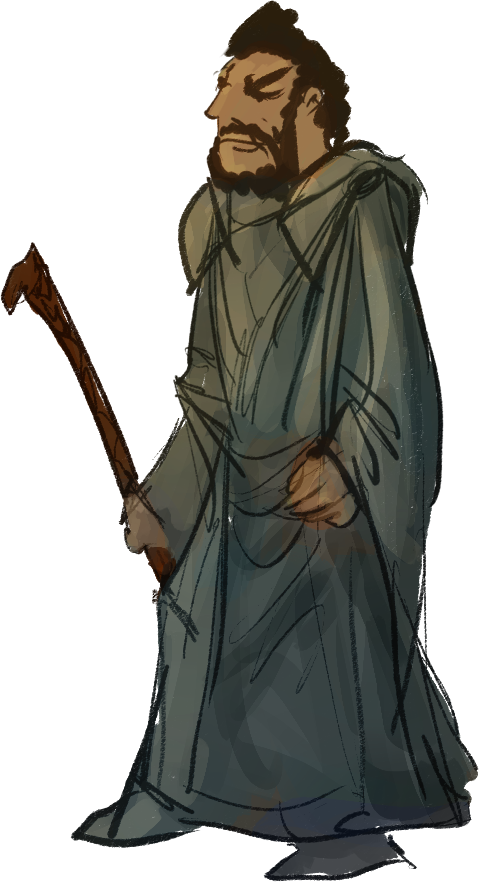
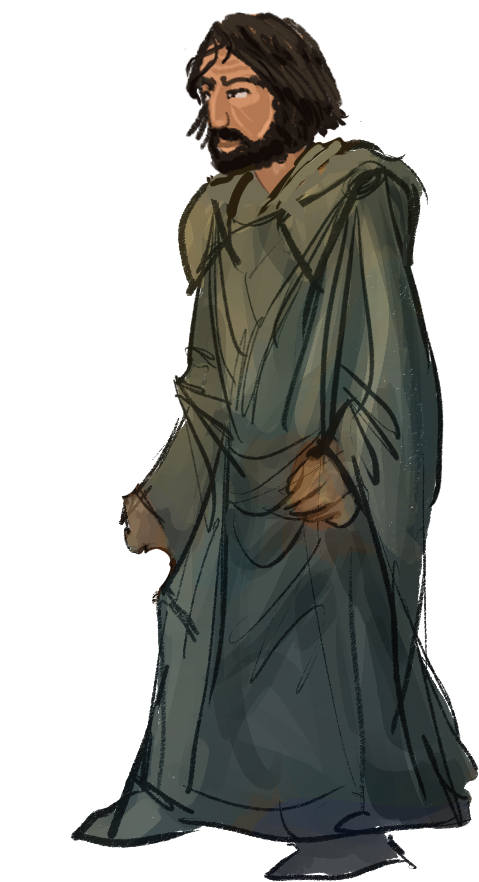
MockQuest

diff --git a/src/engine/reducers.js b/src/engine/reducers.js
@@ -6,6 +6,9 @@ export const [SELECT_LEVEL, selectLevel] = actionCreator('select-level');
 export const [SAVE_PRISONER, savePrisoner] = actionCreator('save-prisoner');
 export const [GET_ITEM, getItem] = actionCreator('get-item');
 export const [MOVE_TO_AREA, moveToArea] = actionCreator('move-to-area');
+
+export const [BEGIN_QUEST, beginQuest] = actionCreator('begin-quest');
+export const [OUT_OF_QUEST, outOfQuest] = actionCreator('out-of-quest');
 export const [QUEST_SOLVED, questSolved] = actionCreator('quest-solved');
 
 export const [WALK_ON_MAP, walkOnMap] = actionCreator('walk-on-map');
@@ -15,6 +18,7 @@ export const [STOP_WALK, stopWalk] = actionCreator('stop-walk');
 export const [SOCRATES_TALK, socratesTalk] = actionCreator('socrates-talk');
 export const [STOP_TALK, stopTalk] = actionCreator('stop-talk');
 export const [CONTINUE_TALK, continueTalk] = actionCreator('continue-talk');
+export const [DEBUG_RESET, debugReset] = actionCreator('debug-reset'); // TODO remove!
 
 export const storyInitial = {
   level: 1,  
@@ -43,6 +47,7 @@ export const storyInitial = {
   equipment: [],
   speakAbout: "",
   hasSocrates: false,
+  hasQuesting: false,
 };
 
 export const storyReducer = (state, {type, payload}) => {
@@ -52,6 +57,8 @@ export const storyReducer = (state, {type, payload}) => {
   const area = caveLookUp[position];
   
   switch(type) {
+    case DEBUG_RESET: return {...storyInitial};
+
     case ACHIVE_SCORE: return { ...state, score: state.score + payload };
     
     case SELECT_LEVEL: return {...state, level: payload };
@@ -66,16 +73,19 @@ export const storyReducer = (state, {type, payload}) => {
       }
 
     case SAVE_PRISONER:
+      // After area solved, but prisoner didn't released.
       if (!area.solved) {
-        console.log(areaData[position])
         const {intro} = areaData[position].data;
         return {          
           ...state, 
-          speakAbout: intro ? intro(avatarNames(level)) : `${position}: intro still missing!`, 
+          speakAbout: intro ? intro(avatarNames(level)) : `A -[${position}]- barlangban még hiányzik a bevezető szöveg!`, 
           hasSocrates: true, 
-          caveLookUp: {...caveLookUp,  [position]:{...area, solved: true} },
+          hasQuesting: true,
+          // caveLookUp: {...caveLookUp,  [position]:{...area, solved: true} }, // TODO
         };
       }
+
+      // before solved  
       const prisoners = area.prisoners.filter(prisoner => prisoner !== payload);
       return {
         ...state, 
@@ -100,8 +110,14 @@ export const storyReducer = (state, {type, payload}) => {
     case START_WALK: return {...state, underWalk: true};
     case STOP_WALK: return {...state, underWalk: false};
     case WALK_ON_MAP: return {...state, walk: payload };
+    
+    case BEGIN_QUEST: return {...state, hasQuesting: true};
+    case OUT_OF_QUEST: return {...state, hasQuesting: false, hasSocrates: false};
 
-    case SOCRATES_TALK: return {...state, speakAbout: payload(avatarNames(level)), hasSocrates: true };
+    case SOCRATES_TALK: 
+      const speakAbout = payload(avatarNames(level));
+      return {...state, speakAbout, hasSocrates: true };
+
     case CONTINUE_TALK: return {...state, hasSocrates: true };
     case STOP_TALK: return {...state, hasSocrates: false };
 

diff --git a/src/layouts/IdeaFrame.js b/src/layouts/IdeaFrame.js
@@ -13,24 +13,25 @@ import HeaderBar from './HeaderBar';
 import MapWithHero from './MapWithHero';
 
 import { areaData } from '../engine/applicationData';
-import { moveToArea, walkOnMap, startWalk, stopWalk, stopTalk, continueTalk, socratesTalk, savePrisoner, getItem } from '../engine/reducers';
+import { moveToArea, walkOnMap, startWalk, stopWalk, stopTalk, continueTalk, socratesTalk, savePrisoner, getItem, questSolved, outOfQuest } from '../engine/reducers';
 import CaveSystem from '../story/CaveSystem';
 import Inventory from './Inventory';
 import showtime from '../utils/showtime';
 import Teams from './Teams';
+import MockQuest from '../quest/MockQuest';
 
 export default ({setWay, storyStore}) => {
-  const [{score, saved, equipment, level, position, walk, underWalk, speakAbout, hasSocrates, caveLookUp}, dispatch] = storyStore;
-  
+  const [{score, saved, equipment, level, position, walk, underWalk, speakAbout, hasSocrates, caveLookUp, hasQuesting}, dispatch] = storyStore;
+
   const [mapVisible, setMapVisiblity] = useState(false); 
   const [inventoryVisible, setInventoryVisiblity] = useState(false);
   const [teamVisible, setTeamVisiblity] = useState(false);
   
-  const handleMap = () => setMapVisiblity(!mapVisible);
+  const handleMap = () => setMapVisiblity(visible => !visible);
   const handleCloseMap = () => setMapVisiblity(false);
   const handleInventory = () => setInventoryVisiblity(visible => !visible);
   const handlePrisoner = () => setTeamVisiblity(visible => !visible);
-  
+ 
   const handleHistory = () => dispatch(hasSocrates ? stopTalk() : continueTalk());
     
   const talkSocrates = speak => dispatch(socratesTalk(speak));
@@ -53,6 +54,11 @@ export default ({setWay, storyStore}) => {
     handleGetItem: itemId => e => dispatch(getItem(itemId)),
   };
 
+  const handleQuestResult = isSucces => e => {
+    isSucces && dispatch(questSolved());
+    dispatch(outOfQuest());
+  }
+
   const prisonerInteraction = {
     handleTryToRelease: (prisoner, speak) => e => {
       talkSocrates(speak)
@@ -71,7 +77,7 @@ export default ({setWay, storyStore}) => {
         talkSocrates={talkSocrates} 
         interaction={{...mapInteraction, ...prisonerInteraction}}
       />            
-      <SocratesSpeaking show={hasSocrates && !mapVisible} speakAbout={speakAbout} level={level} handleStopSpeak={handleStopSpeak} />
+      <SocratesSpeaking show={hasSocrates} speakAbout={speakAbout} level={level} handleStopSpeak={handleStopSpeak} />
       <BottomBar 
         handleMap={handleMap} 
         handlePrisoner={handlePrisoner} 
@@ -89,7 +95,8 @@ export default ({setWay, storyStore}) => {
         underWalk={underWalk}
       />
       <CollectedItems show={inventoryVisible} handleClose={() => setInventoryVisiblity(false)} equipment={equipment} />
-      <SavedPrisoners show={teamVisible} handleClose={() => setTeamVisiblity(false)} saved={saved} />
+      <SavedPrisoners show={teamVisible} handleClose={() => setTeamVisiblity(false)} saved={saved} />      
+      <MockQuest show={hasQuesting && !hasSocrates} position={position} handleQuestResult={handleQuestResult} />
     </main>
   );
 }

diff --git a/src/styles/graphic.scss b/src/styles/graphic.scss
@@ -332,13 +332,16 @@
   opacity: 0.3;
   &:hover { opacity: 1;}
   transform-origin: center center;
+  
+  &[data-path="C-A"] { @include bimage('/img/caves/prisoner-route-1.png', 59vmin, 98vmin, 21vmin, 14vmin); }
+  &[data-path="C-X"] { @include bimage('/img/caves/prisoner-route-2.png', 61vmin, 79vmin, 44vmin, 83vmin); }
 }
 
 .prisoner {
   &[data-prisoner="A1"] { @include bimage('/img/mobs/prisoner-01.png', 33vmin, 33vmin, 83vmin, 15vmin) }
   &[data-prisoner="B1"] { @include bimage('/img/mobs/prisoner-02.png', 33vmin, 33vmin, 34vmin, 56vmin) }
   &[data-prisoner="B2"] { @include bimage('/img/mobs/prisoner-03.png', 33vmin, 33vmin, 82vmin, 30vmin) }
-  &[data-prisoner="C1"] { @include bimage('/img/mobs/prisoner-04.png', 33vmin, 33vmin, 33vmin, 50vmin) }
+  &[data-prisoner="C1"] { @include bimage('/img/gui/prisoner-on-scene.png', 55vmin, 60vmin, 96vmin, 30vmin)  }
   &[data-prisoner="D1"] { @include bimage('/img/mobs/prisoner-05.png', 43vmin, 43vmin, 83vmin, 50vmin) }
   &[data-prisoner="E1"] { @include bimage('/img/mobs/prisoner-06.png', 33vmin, 33vmin, 33vmin, 65vmin) }
   &[data-prisoner="E2"] { @include bimage('/img/mobs/prisoner-07.png', 33vmin, 33vmin, 44vmin,  5vmin) }
@@ -350,7 +353,7 @@
 }
 
 .item {
-  &[data-item="C1"] { @include bimage('/img/mobs/item-01.png', 25vmin, 25vmin, 125vmin, 20vmin) }
+  &[data-item="C1"] { @include bimage('/img/mobs/item-01.png', 25vmin, 25vmin, 125vmin, 20vmin) }  
   &[data-item="C2"] { @include bimage('/img/mobs/item-02.png', 25vmin, 25vmin, 129vmin, 74vmin) }
   &[data-item="D1"] { @include bimage('/img/mobs/item-03.png', 25vmin, 25vmin, 55vmin, 50vmin) }
   &[data-item="D2"] { @include bimage('/img/mobs/item-04.png', 25vmin, 25vmin, 120vmin, 70vmin) }

diff --git a/src/styles/divStore.js b/src/styles/divStore.js
@@ -1,16 +1,10 @@
-import React from 'react';
-import divFactory from '../utils/divFactory';
+import divFactory, {showFactory} from '../utils/divFactory';
 
 export const [HeaderBarSection, LevelOneAvatar, LevelTwoAvatar] = divFactory(["header-bar", "lvl-1-char", "lvl-2-char"]);
 export const [AvatarOneOnMap, AvatarTwoOnMap] = divFactory(["lvl-1-char avatar-on-map", "lvl-2-char avatar-on-map"]);
 
-export const [
-  BottomBarSection, 
-  MapIcon, 
-  InventoryIcon, 
-  SavedIcon, 
-  HistoryIcon
-] = divFactory(["bottom-bar", "bottom-map", "bottom-inventory", "bottom-saved", "bottom-history"]);
+export const [BottomBarSection, MapIcon, HistoryIcon] = divFactory(["bottom-bar", "bottom-map", "bottom-history"]);
+export const [InventoryIcon, SavedIcon] = showFactory(["bottom-inventory", "bottom-saved"]);
 
 export const [PlayCity, SmallLogo, HistorycalPapper]= divFactory(["play-city", "small-logo", "history-papper"]);
 export const [Socrates, SocratesAvatar, SpeakText, SocratesHolder]= divFactory(["socrates-speaking", "socrates-avatar", "speak-text", "socrates-holder"]);
@@ -33,7 +27,7 @@ export const [PrisonerOne] = divFactory(["prisoner-1"]);
 export const [ItemOne] = divFactory(["item-1"]);
 export const [SimpleDarkBg, Island] = divFactory(["simple-dark-bg", "island"]);
 
-export const [DarkGold, IntroButton] = divFactory(["dark-gold", "intro-button nosel"]);
+export const [DarkGold, IntroButton, IntroHeader] = divFactory(["dark-gold", "intro-button nosel", "intro-header"]);
 export const [Adeimantosz, Glaukon] = divFactory(["adeimantosz", "glaukon"]);
 
 export const [GameHolder] = divFactory(["game-holder"]);

diff --git a/src/story/AvatarSelection.js b/src/story/AvatarSelection.js
@@ -1,12 +1,11 @@
-import React, {useState} from 'react';
-import { DarkGold, IntroButton, SimpleDarkBg, Adeimantosz, Glaukon } from '../styles/divStore';
-import DescriptionOfHistory from './DescriptionOfHistory';
+import React from 'react';
+import { IntroButton, SimpleDarkBg, Adeimantosz, Glaukon, IntroHeader, IntroButtonHolder } from '../styles/divStore';
 import { avatarNames, whoIsTheHero, avatarDescripts } from '../engine/applicationData';
 import { selectLevel } from '../engine/reducers';
 
 export default ({setWay, storyStore}) => {
 
-  const [{level}, dispatch] = storyStore;
+  const [{}, dispatch] = storyStore;
 
   const handleLevelSelection = level => () => {
     setWay(2);
@@ -15,8 +14,8 @@ export default ({setWay, storyStore}) => {
 
   return (
     <SimpleDarkBg>
-      <div className='intro-header'>{whoIsTheHero}</div>
-      <div className='intro-button-holder'>      
+      <IntroHeader>{whoIsTheHero}</IntroHeader>
+      <IntroButtonHolder>
         <IntroButton onClick={handleLevelSelection(1)}>
           <Glaukon><span>{avatarDescripts[0]}</span></Glaukon>
           {avatarNames(1)}
@@ -25,7 +24,7 @@ export default ({setWay, storyStore}) => {
           <Adeimantosz><span>{avatarDescripts[1]}</span></Adeimantosz>
           {avatarNames(2)}
         </IntroButton>
-      </div>
+      </IntroButtonHolder>
     </SimpleDarkBg>
   );
 }

diff --git a/src/story/CaveSystem.js b/src/story/CaveSystem.js
@@ -1,13 +1,11 @@
 import React from 'react';
 import {
-  RouteArrow, Prisoner, Item,
+  RouteArrow, Prisoner, Item, PrisonerCave,
   BlueCave, LongCave, WaterFallCave, BehindTheDoor,
   LightCave, FangCave, NeedleCave, StairCaseCave,
   ChainCave, BuildingCave, WheelCave, EnginerCave, RoadCave,   
 } from '../styles/divStore';
 import DownToDeep from './DownToDeep';
-import PrisonerDemo from './PrisonerDemo';
-import cavePath from '../layouts/cavePath';
 import { areaData } from '../engine/applicationData';
 
 const backroundLookup = {
@@ -15,7 +13,7 @@ const backroundLookup = {
   Y:  BehindTheDoor,
   A:  BlueCave,
   B:  BuildingCave,
-  // C:  PrisonerDemo,
+  C:  PrisonerCave,
   D:  LongCave,
   X:  StairCaseCave,
   E:  NeedleCave,
@@ -40,16 +38,9 @@ export default ({position, level, talkSocrates, interaction, currentArea}) => {
   // Q:  DownToDeep,
   if (position === 'Q') return <DownToDeep level={level} talkSocrates={talkSocrates} interaction={interaction} />;
 
-  // C:  PrisonerDemo,
-  if (position === 'C') return (
-    <PrisonerDemo interaction={interaction} exits={areaData.C.exits}>
-      {showItems}      
-    </PrisonerDemo>
-  );
-
   const Background = backroundLookup[position];
 
-  return (
+  return (    
     <Background>
       {showExits}
       {showItems}

diff --git a/src/layouts/IdeaAdventuresBegin.js b/src/layouts/IdeaAdventuresBegin.js
@@ -1,0 +1,33 @@
+import React, {useState, useReducer} from 'react';
+
+import IdeaFrame from './IdeaFrame';
+import showtime from '../utils/showtime';
+import IdeaIntro from '../story/IdeaIntro';
+import AvatarSelection from '../story/AvatarSelection';
+import { storyReducer, storyInitial, debugReset } from '../engine/reducers';
+
+const loaderOver = content => {postApplicationReady(); return content; };
+const rootRender = content => render(loaderOver(content), document.getElementById('root'));
+
+const IdeaFrameShow = showtime(IdeaFrame);
+const IdeaIntroShow = showtime(IdeaIntro);
+const AvatarSelectionShow = showtime(AvatarSelection);
+
+export default () => {
+  const storyStore = useReducer(storyReducer, storyInitial);
+  const [{}, dispatch] = storyStore;
+  const [way, setWay] = useState(0);  
+
+  const handleReset = () => {
+    dispatch(debugReset());
+    setWay(0);
+  };
+
+  return (
+    <>      
+      <IdeaIntroShow show={way==0} setWay={setWay} />
+      <AvatarSelectionShow show={way==1} setWay={setWay} storyStore={storyStore} />
+      <IdeaFrameShow show={way===2} setWay={handleReset} storyStore={storyStore} />
+    </>
+  );
+}

diff --git a/src/quest/MockQuest.js b/src/quest/MockQuest.js
@@ -1,0 +1,34 @@
+import React from 'react';
+import { PlayCity, IntroButton, IntroButtonHolder, SimpleDarkBg } from '../styles/divStore';
+import showtime from '../utils/showtime';
+import { Minigame } from '../layouts/Geometries';
+
+const questLookup = {
+  Q:  Minigame,
+  Y:  Minigame,
+  A:  Minigame,
+  B:  Minigame,
+  C:  Minigame,
+  D:  Minigame,
+  X:  Minigame,
+  E:  Minigame,
+  F:  Minigame,
+  G:  Minigame,
+  H:  Minigame,
+  I:  Minigame,
+  J:  Minigame,
+  K:  Minigame,
+  L:  Minigame,
+};
+
+export default showtime(({handleQuestResult, position}) => {
+  return (
+    <SimpleDarkBg>
+      <Minigame />
+      <IntroButtonHolder>
+        <IntroButton onClick={handleQuestResult(false)}>Balsiker</IntroButton>
+        <IntroButton onClick={handleQuestResult(true)}>Győzelem</IntroButton>
+      </IntroButtonHolder>
+    </SimpleDarkBg>
+  );
+});

diff --git a/src/layouts/BottomBar.js b/src/layouts/BottomBar.js
@@ -8,11 +8,12 @@ import {
 } from '../styles/divStore';
 
 export default ({handleMap, handleInventory, handlePrisoner, handleHistory, equipment, saved}) => {
+
   return (
     <BottomBarSection>
       <MapIcon onClick={handleMap}/>
-      {equipment.length  && <InventoryIcon onClick={handleInventory} />}
-      {saved.length && <SavedIcon onClick={handlePrisoner} />}
+      <InventoryIcon show={equipment.length} onClick={handleInventory} />
+      <SavedIcon show={saved.length} onClick={handlePrisoner} />
       <HistoryIcon onClick={handleHistory} />
     </BottomBarSection>
   );  

diff --git a/src/styles/caves.scss b/src/styles/caves.scss
@@ -15,8 +15,10 @@
   &[data-path="B-X"] { @include arrow(  3,  96,   72 ); }
   &[data-path="B-D"] { @include arrow( 49, 120,  -51 ); }
   
-  &[data-path="C-A"] { @include arrow(  2, 50,  30 ); }
-  &[data-path="C-X"] { @include arrow( 70, 50, -30 ); }
+  /*
+  &[data-path="C-A"] { @include arrow(  0, 0, 0 ); }
+  &[data-path="C-X"] { @include arrow(  0, 0, 0 ); }
+  */
   
   &[data-path="D-B"] { @include arrow( 15,  78, 210 ); }
   &[data-path="D-X"] { @include arrow(  5, 127,  90 ); }

diff --git a/src/engine/applicationData.js b/src/engine/applicationData.js
@@ -192,19 +192,7 @@ export const finale = {
   PlatonMerit: karakter => `${karakter} discső felszabadító (pecsét)`
 }
 
-export const prisoners = {
-  A: [1],
-  B: [1,1],
-  C: [1],
-  D: [1],
-  E: [1,1],
-  F: [1,1],
-  G: [1],
-  H: [1],
-  I: [1],
-}
-
-export const items = {
+export const itemNames = {
   C: ['tűzpattintó', 'amfóra'],
   D: ['szárított taplógomba', 'kovakő'],
   E: ['kulcs', 'érme'],

diff --git a/src/index.js b/src/index.js
@@ -4,8 +4,8 @@ import './styles/font.scss';
 import './styles/global.scss';
 
 import rootRender from './utils/rootRender';
-import IdeaWithWichableDocument from './layouts/IdeaWithWichableDocument';
+import IdeaAdventuresBegin from './layouts/IdeaAdventuresBegin';
 
 import version from '../version'; console.log(`idea :: ${version}`);
 
-rootRender(<IdeaWithWichableDocument />);
+rootRender(<IdeaAdventuresBegin />);
